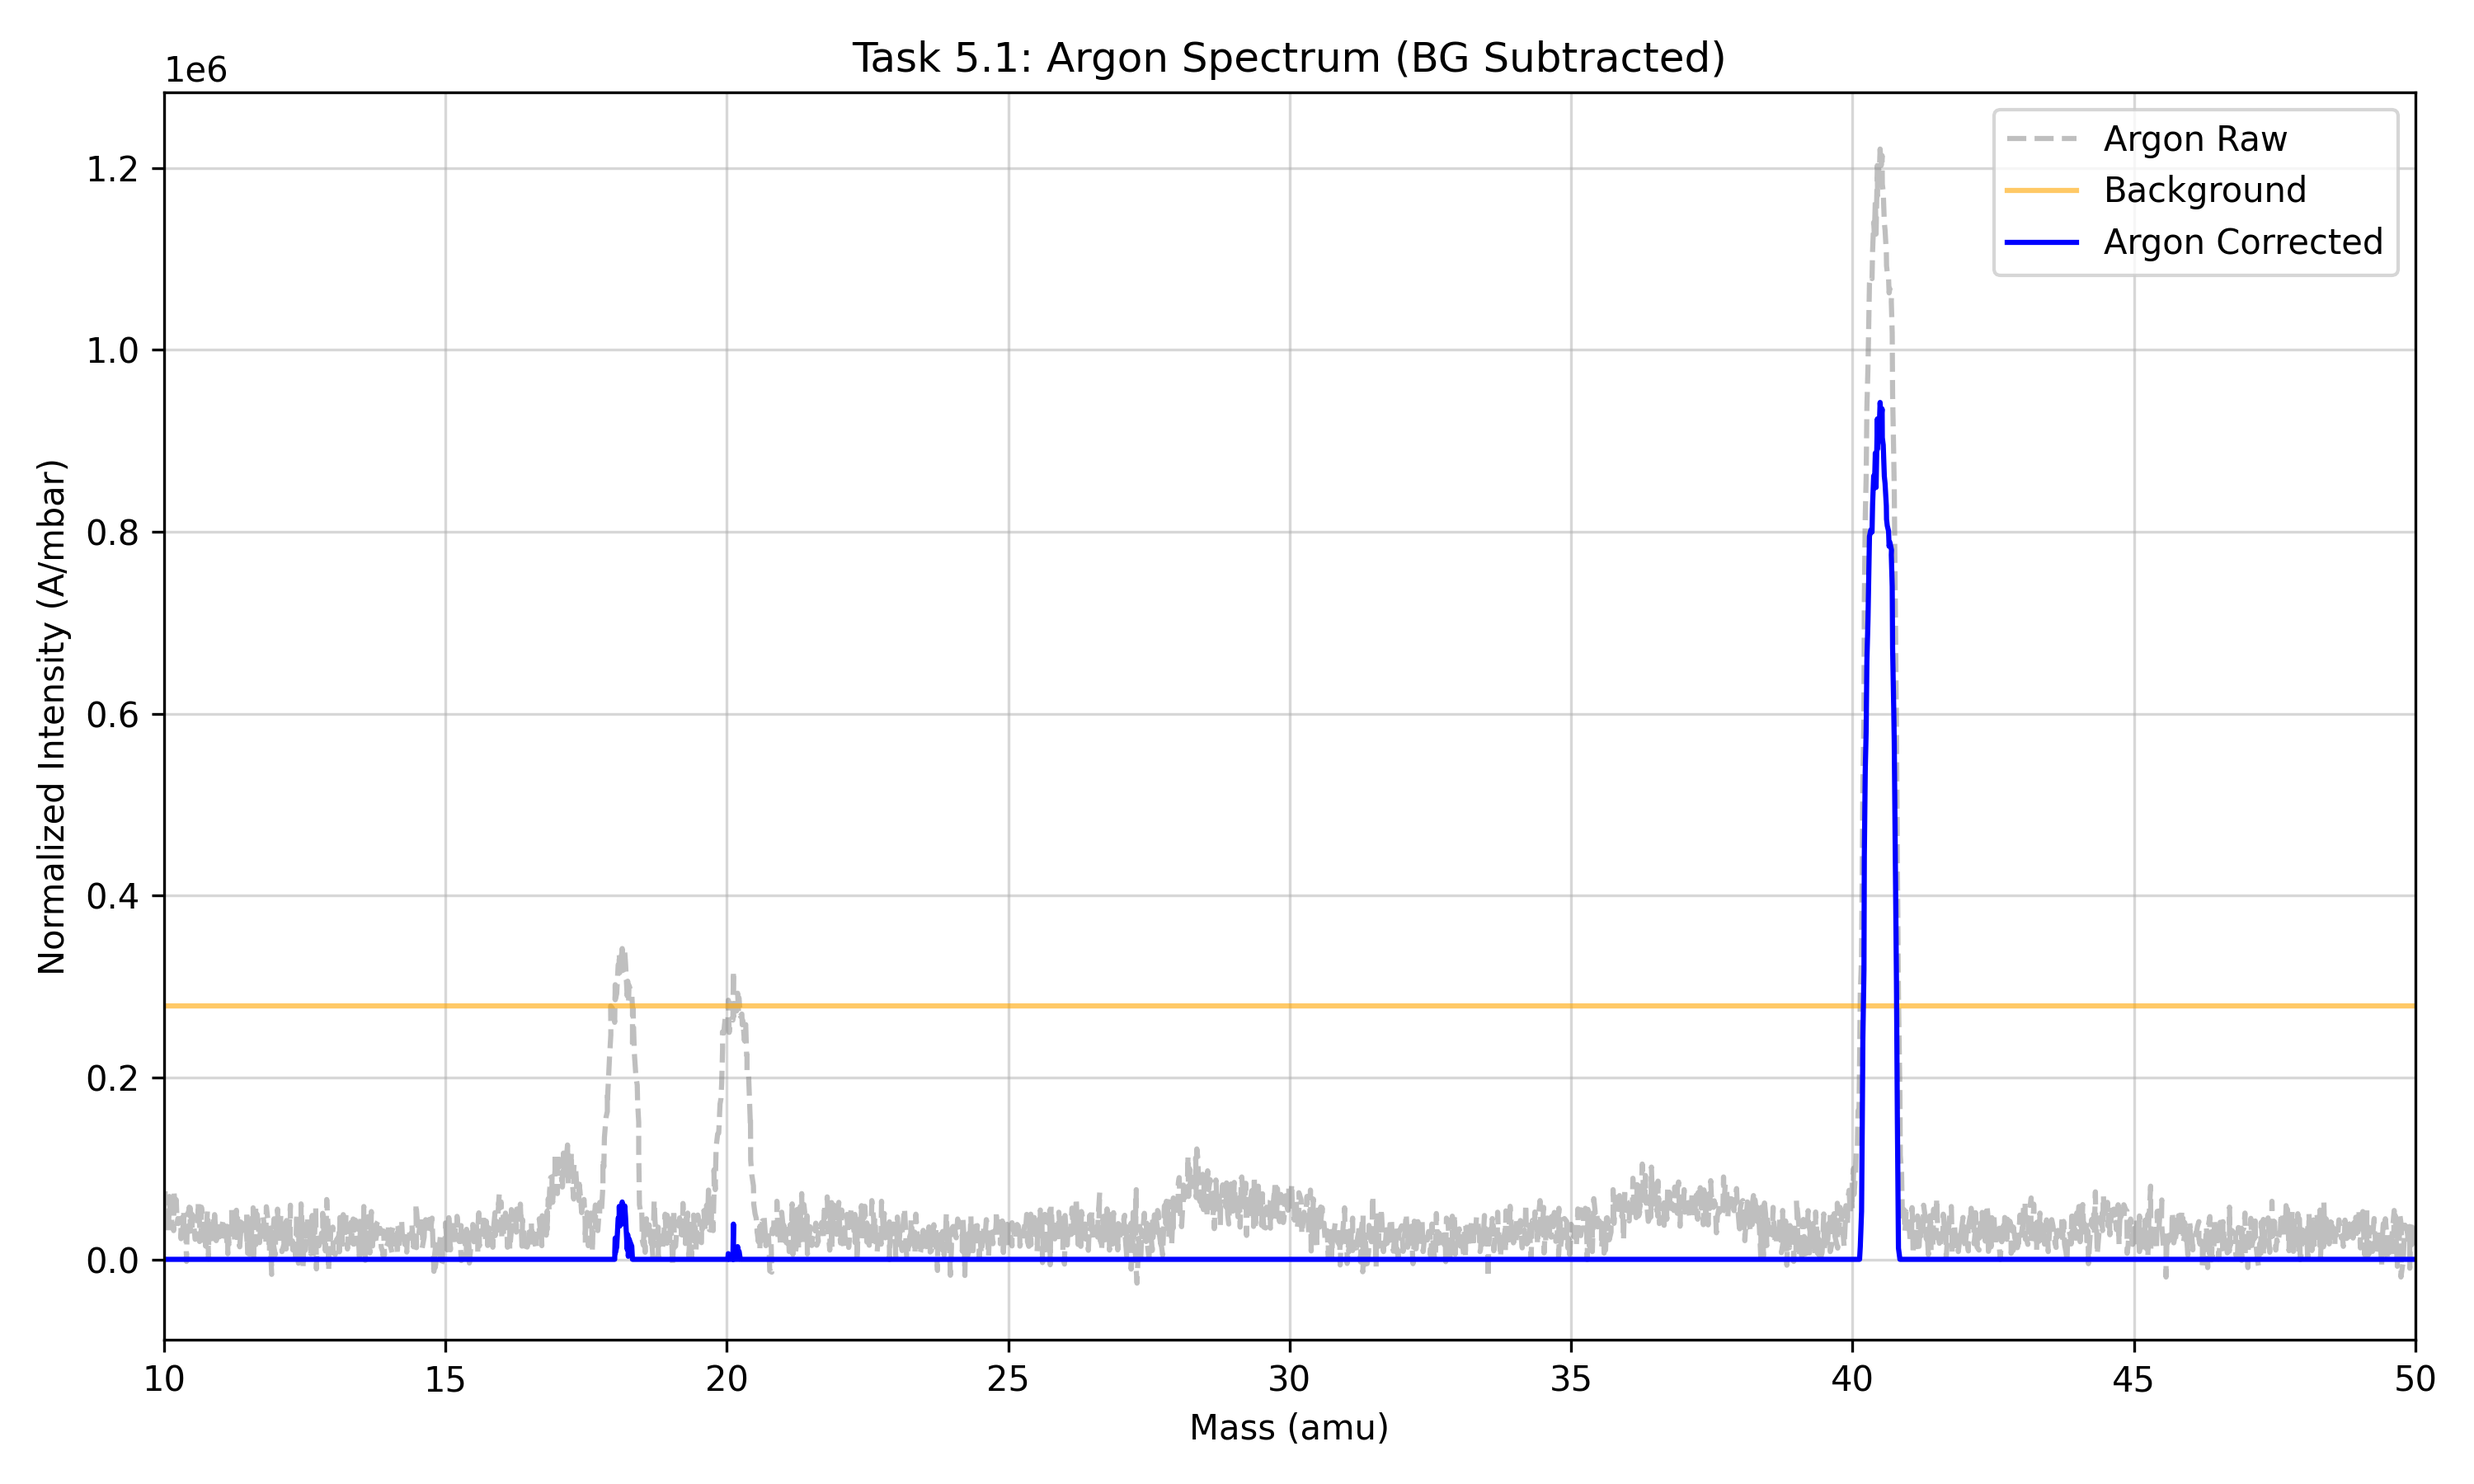
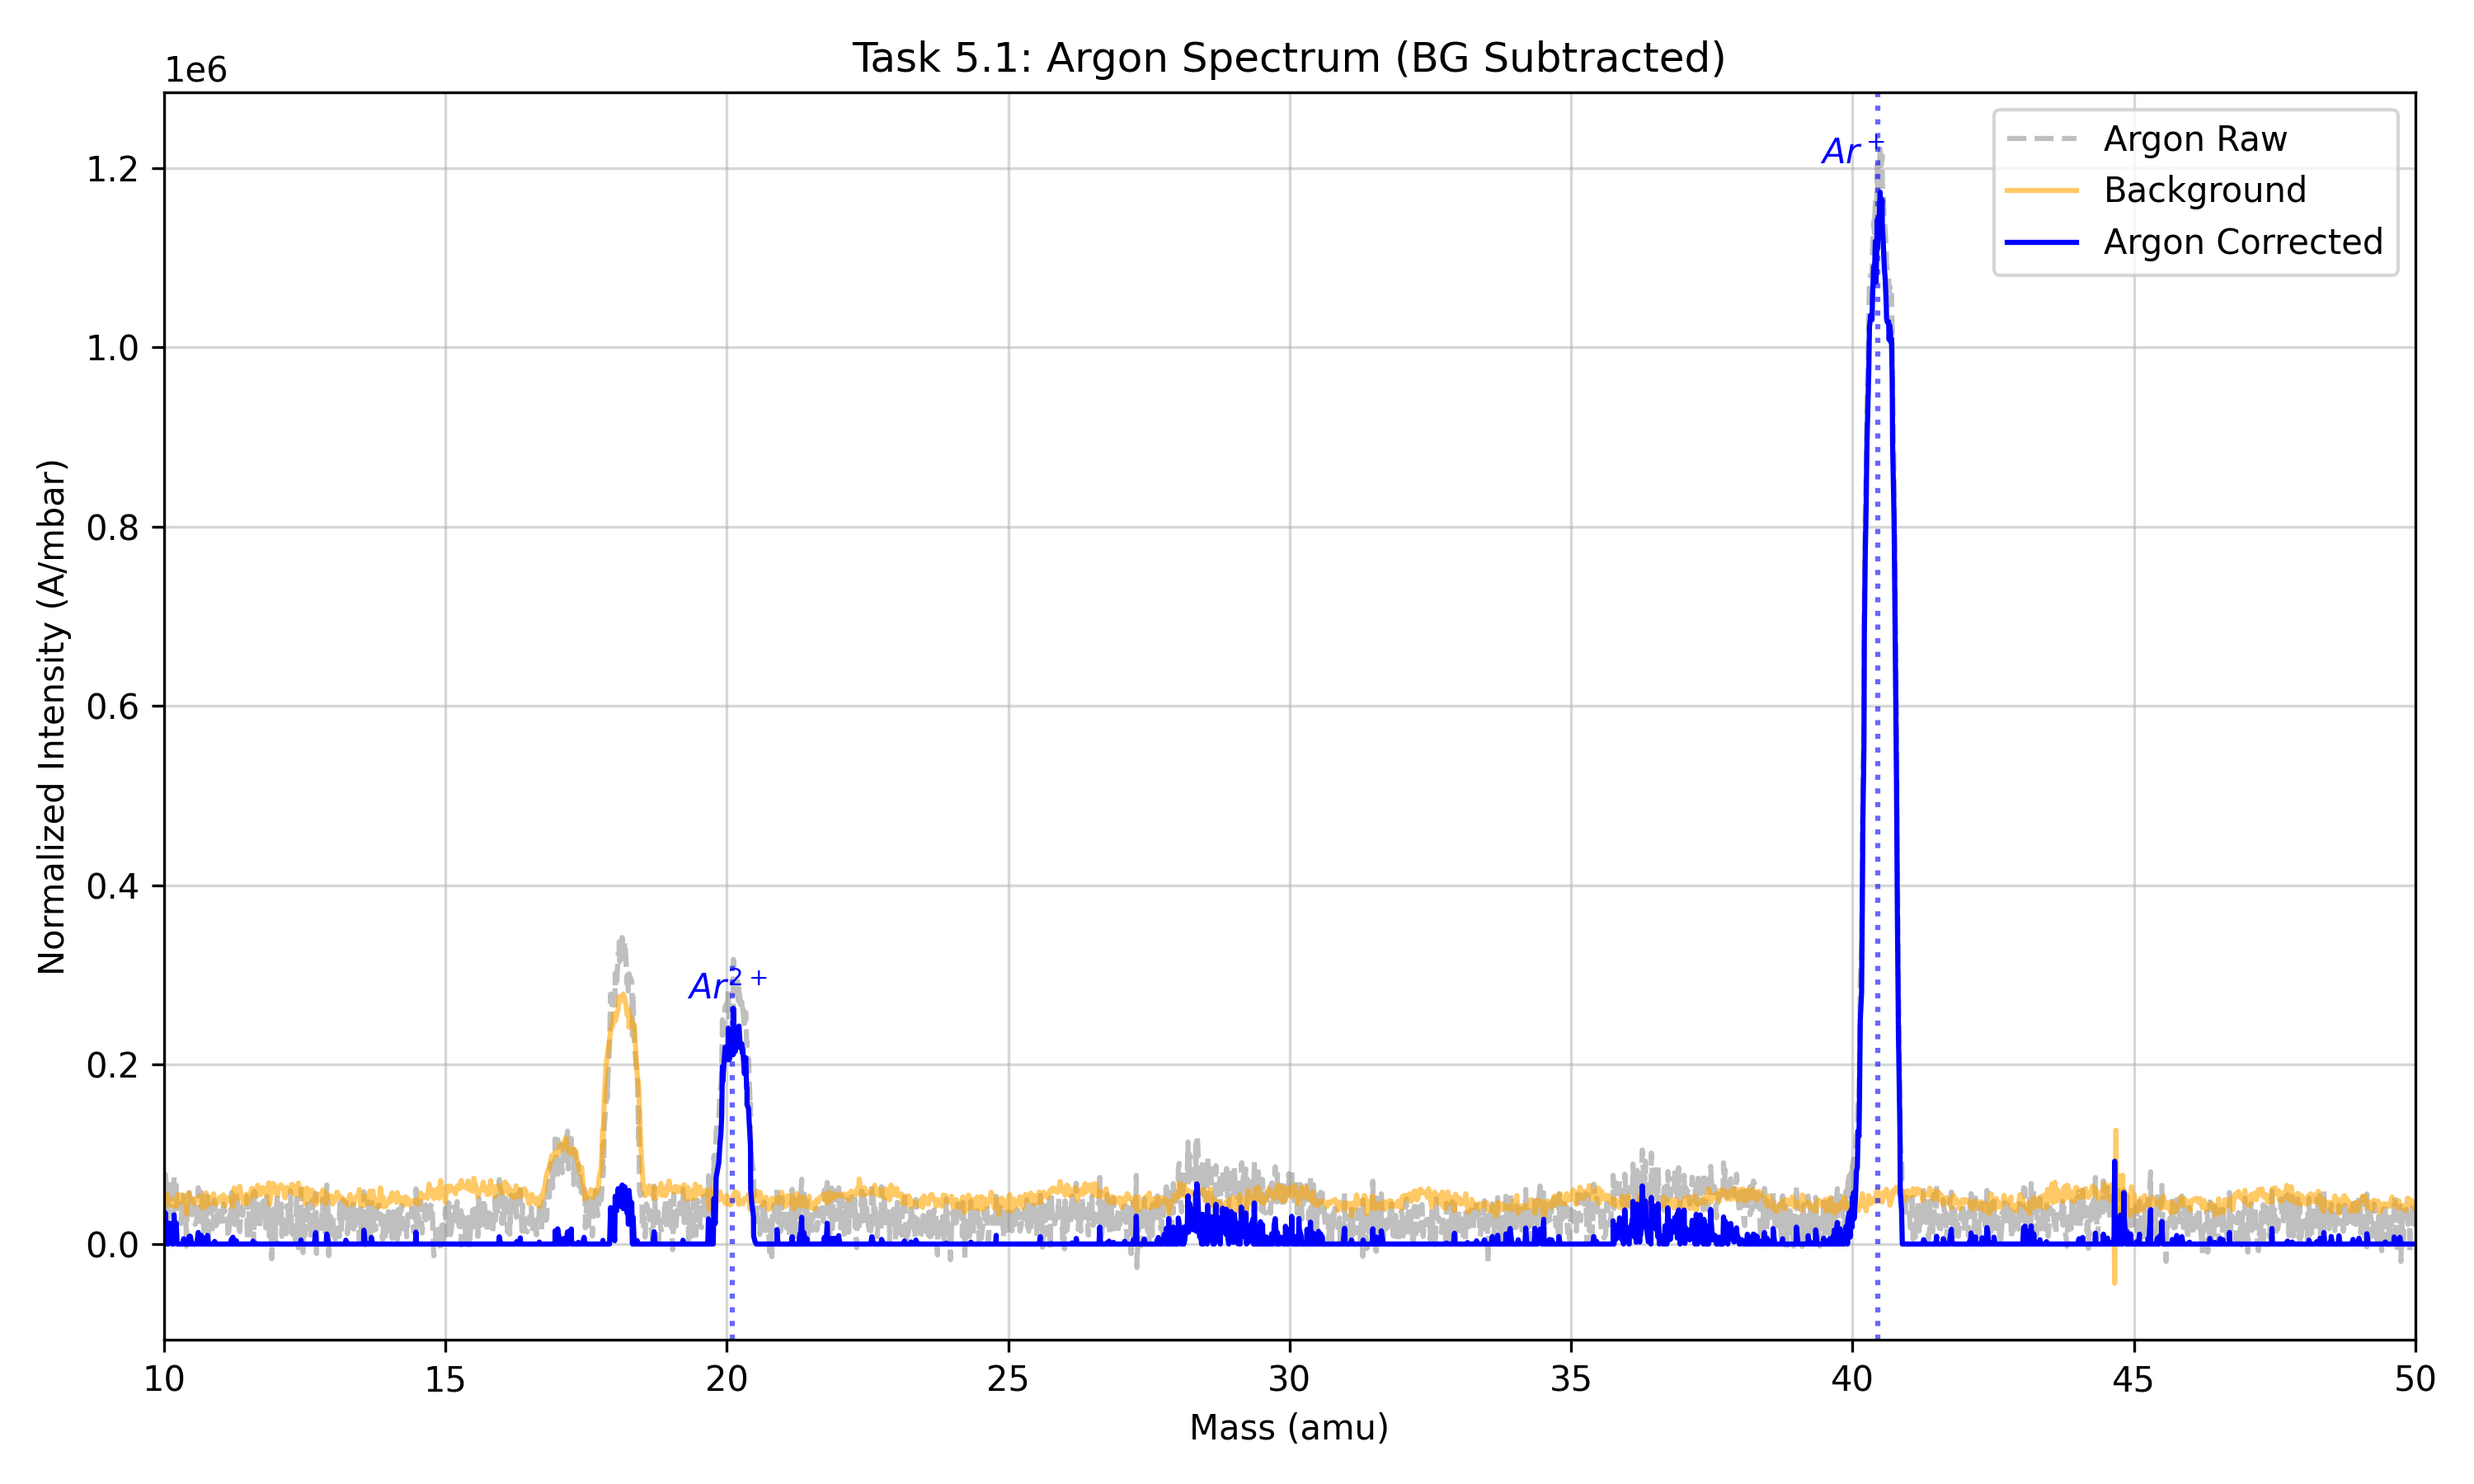
Fixed problems

Changed region(s): [[0.031, 0.1244, 0.992, 0.8711]]

diff --git a/resources/utils.py b/resources/utils.py
@@ -1,38 +1,47 @@
-# utils.py
 import numpy as np
 import os
 from scipy.signal import find_peaks
 
 def load_spectrum(filepath: str) -> tuple[np.ndarray, np.ndarray]:
-    """Returns: mass (x), intensity (y)"""
+    """Returns: sorted_mass (x), intensity (y)"""
     try:
+        # Load raw strings
         raw_data = np.genfromtxt(filepath, delimiter='\t', dtype=str)
         # Fix commas and convert
         clean_data = np.char.replace(raw_data, ',', '.').astype(float)
-        # Col 0 = Intensity, Col 1 = Mass/10
-        return clean_data[:, 1] * 10, clean_data[:, 0]
+        
+        # Extract columns (Col 1 = Mass/10, Col 0 = Intensity)
+        mass = clean_data[:, 1] * 10
+        intensity = clean_data[:, 0]
+        
+        # The QMS saves data out of order. We must sort it here.
+        sort_idx = np.argsort(mass)
+        return mass[sort_idx], intensity[sort_idx]
+        
     except Exception as e:
         print(f"Error loading {os.path.basename(filepath)}: {e}")
         return np.array([]), np.array([])
 
 def get_peak_height_robust(mass, intensity, target_mass, search_window):
-    """Finds peak intensity robustly using relative prominence."""
+    """Finds peak intensity robustly."""
     mask = (mass > target_mass - search_window) & (mass < target_mass + search_window)
     if not np.any(mask): return 0.0
     
-    m_local = mass[mask]
     i_local = intensity[mask]
     
     # Noise threshold: 5% of local max
     local_max = np.max(i_local)
     if local_max == 0: return 0.0
     
+    # Use find_peaks to ignore noise
     peaks, _ = find_peaks(i_local, prominence=(local_max * 0.05))
     
     if len(peaks) == 0:
         return float(np.max(i_local))
 
-    # Pick the peak physically closest to the target mass
+    # Return intensity of the peak closest to target mass
+    # (Since we masked the mass/intensity arrays, we need to map peak indices back)
+    m_local = mass[mask]
     peak_masses = m_local[peaks]
     idx = np.argmin(np.abs(peak_masses - target_mass))
     return float(i_local[peaks[idx]])

diff --git a/resources/debug.py b/resources/debug.py
@@ -1,0 +1,29 @@
+import numpy as np
+import os
+
+DATA_DIR = './data'
+file_bg = 'FP10_qmf260114_003_bg_sp10_em-10_p54e-6.txt'
+file_ar = 'FP10_qmf260114_004_ar_sp10_em-10_p13e-5.txt'
+
+def check_file(name, path):
+    print(f"\n--- CHECKING {name} ---")
+    try:
+        # Load raw strings
+        raw = np.genfromtxt(path, delimiter='\t', dtype=str)
+        # Convert
+        clean = np.char.replace(raw, ',', '.').astype(float)
+        
+        # Col 1 is Mass (we assume Mass/10 based on logbook)
+        mass = clean[:, 1] * 10
+        intensity = clean[:, 0]
+        
+        print(f"  > Data Points: {len(mass)}")
+        print(f"  > Mass Range:  {mass.min():.2f}  to  {mass.max():.2f} amu")
+        print(f"  > First 5 Masses: {mass[:5]}")
+        print(f"  > Is sorted?   {np.all(mass[:-1] <= mass[1:])}")
+        
+    except Exception as e:
+        print(f"  > ERROR: {e}")
+
+check_file("BACKGROUND", os.path.join(DATA_DIR, file_bg))
+check_file("ARGON", os.path.join(DATA_DIR, file_ar))

diff --git a/resources/task_5_1.py b/resources/task_5_1.py
@@ -38,6 +38,16 @@ def run_task_5_1():
     plt.plot(m_ar, i_ar_norm, color='gray', alpha=0.5, ls='--', label='Argon Raw')
     plt.plot(m_ar, i_bg_interp * factor, color='orange', alpha=0.6, label='Background')
     plt.plot(m_ar, i_clean, color='blue', lw=1.5, label='Argon Corrected')
+
+    # --- PEAK LABELS ---
+    # Ar+ (40)
+    plt.axvline(x=40.45, color='blue', linestyle=':', alpha=0.6)
+    plt.text(39, np.max(i_clean)*1.02, '$Ar^+$', ha='center', va='bottom', color='blue', fontweight='bold')
+    
+    # Ar++ (20)
+    h_20 = get_peak_height_robust(m_ar, i_clean, 20.0, 1.0)
+    plt.axvline(x=20.1, color='blue', linestyle=':', alpha=0.6, ymax=0.3)
+    plt.text(19, h_20*1.1, '$Ar^{2+}$', ha='center', va='bottom', color='blue')
     
     plt.xlim(10, 50)
     plt.title('Task 5.1: Argon Spectrum (BG Subtracted)')

diff --git a/resources/task_5_2.py b/resources/task_5_2.py
@@ -17,11 +17,11 @@ def run_task_5_2():
     plt.plot(m, i_norm, color='purple', label='Acetone ($CH_3COCH_3$)')
     
     # Annotate Fragments
-    peaks = [(58, 'M+'), (43, 'CH3CO+'), (15, 'CH3+')]
+    peaks = [(59, 'M+'), (43.6, 'CH3CO+'), (15.1, 'CH3+')]
     for mass, txt in peaks:
         h = get_peak_height_robust(m, i_norm, mass, 1.0)
         if h > 0:
-            plt.annotate(txt, xy=(mass, h), xytext=(mass, h*1.15),
+            plt.annotate(txt, xy=(mass, h), xytext=(mass, h*1.5),
                          arrowprops=dict(facecolor='black', shrink=0.05), ha='center')
 
     plt.xlim(10, 65)
